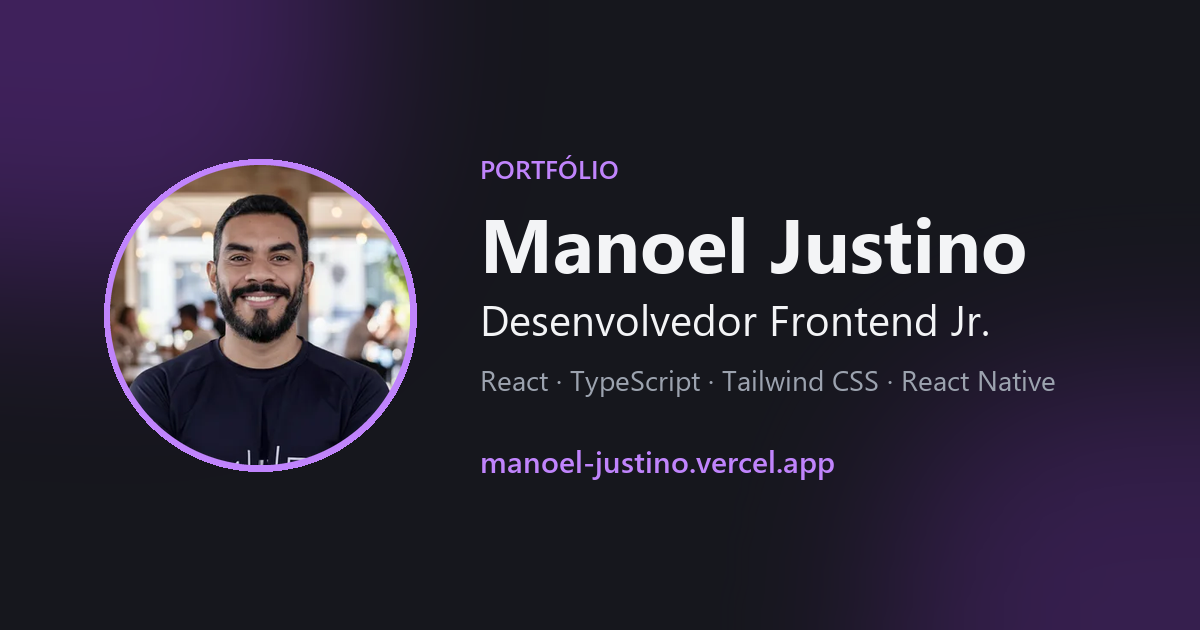
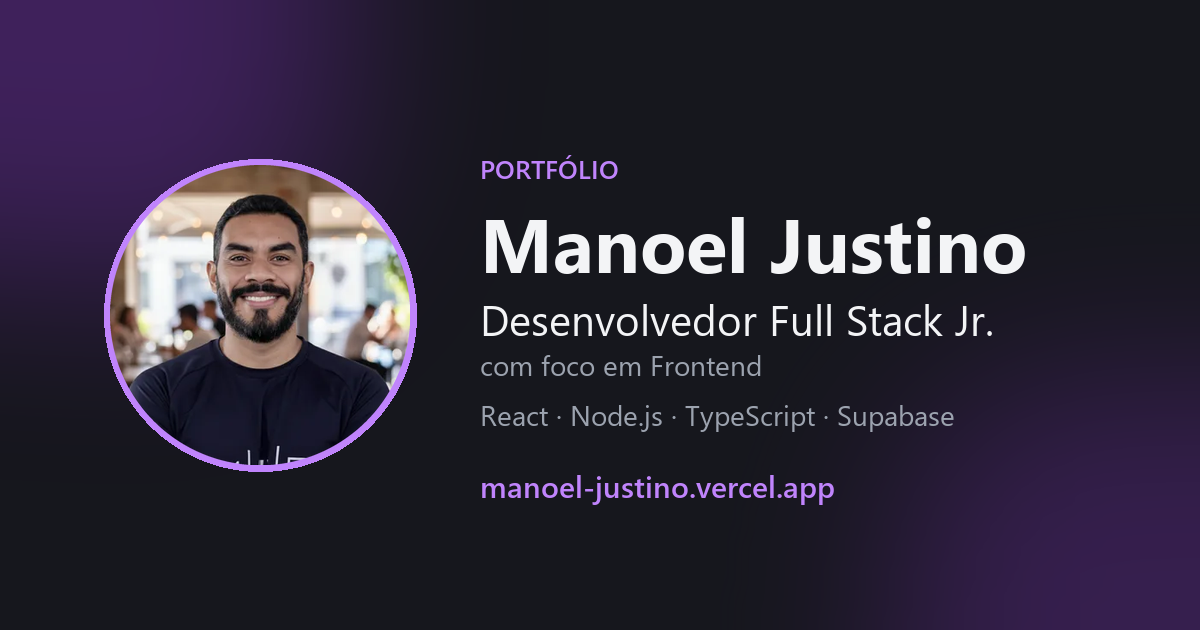
feat: atualiza posicionamento do site para Full Stack Jr. com foco em Frontend

Changed region(s): [[0.4008, 0.573, 0.8942, 0.6937], [0.4008, 0.7238, 0.7092, 0.8143], [0.6475, 0.4825, 0.8325, 0.5429]]

diff --git a/index.html b/index.html
@@ -4,18 +4,18 @@
     <meta charset="UTF-8" />
     <link rel="icon" type="image/svg+xml" href="/favicon.svg" />
     <meta name="viewport" content="width=device-width, initial-scale=1.0" />
-    <title>Manoel Justino | Desenvolvedor Frontend Jr.</title>
-    <meta name="description" content="Portfólio de Manoel Justino, desenvolvedor Frontend Jr. em João Pessoa - PB. Projetos com React, React Native e JavaScript." />
+    <title>Manoel Justino | Desenvolvedor Full Stack Jr.</title>
+    <meta name="description" content="Portfólio de Manoel Justino, desenvolvedor Full Stack Jr. com foco em Frontend, em João Pessoa - PB. Projetos com React, Node.js, Supabase e React Native." />
 
     <meta property="og:type" content="website" />
     <meta property="og:locale" content="pt_BR" />
-    <meta property="og:title" content="Manoel Justino | Desenvolvedor Frontend Jr." />
-    <meta property="og:description" content="De Personal Trainer a desenvolvedor Frontend. Conheça meus projetos com React e React Native." />
+    <meta property="og:title" content="Manoel Justino | Desenvolvedor Full Stack Jr." />
+    <meta property="og:description" content="De Personal Trainer a desenvolvedor Full Stack, com foco em Frontend. Conheça meus projetos com React, Node.js e React Native." />
     <meta property="og:url" content="https://manoel-justino.vercel.app/" />
     <meta property="og:image" content="https://manoel-justino.vercel.app/og-image.png" />
     <meta property="og:image:width" content="1200" />
     <meta property="og:image:height" content="630" />
-    <meta property="og:image:alt" content="Manoel Justino, Desenvolvedor Frontend Jr." />
+    <meta property="og:image:alt" content="Manoel Justino, Desenvolvedor Full Stack Jr. com foco em Frontend" />
     <meta name="twitter:card" content="summary_large_image" />
     <link rel="canonical" href="https://manoel-justino.vercel.app/" />
   </head>

diff --git a/src/components/sections/Contato.jsx b/src/components/sections/Contato.jsx
@@ -29,7 +29,7 @@ function Contato() {
   return (
     <section id="contato" className="max-w-2xl mx-auto px-6 pt-4 pb-16 sm:pt-8 sm:pb-24 text-left">
       <SectionHeader rotulo="Contato" titulo="Vamos conversar?">
-        Estou em busca da minha primeira oportunidade como desenvolvedor Frontend. Se quiser
+        Estou em busca da minha primeira oportunidade como desenvolvedor Full Stack. Se quiser
         falar sobre uma vaga, um projeto ou trocar uma ideia, é só chamar.
       </SectionHeader>
 
@@ -53,7 +53,7 @@ function Contato() {
       <div className="flex flex-wrap gap-3 mt-8">
         <a
           href={contato.curriculo}
-          download="Curriculo-Manoel-Justino-Frontend.pdf"
+          download="Curriculo-Manoel-Justino.pdf"
           className="inline-flex items-center gap-2 px-5 py-3 rounded-lg bg-(--accent) text-sm font-medium text-(--bg) transition-opacity duration-200 hover:opacity-90"
         >
           <IconeDownload className="w-4 h-4" />

diff --git a/src/components/sections/Sobre.jsx b/src/components/sections/Sobre.jsx
@@ -8,10 +8,10 @@ function Sobre() {
     >
       <SectionHeader
         rotulo="Sobre"
-        titulo="Frontend orientado a clareza, performance e experiência do usuário."
+        titulo="Desenvolvimento orientado a clareza, performance e experiência do usuário."
       >
         Formado em Sistemas para Internet (UNIESP), com 9 anos de experiência como Personal
-        Trainer. Hoje direciono minha carreira para o desenvolvimento Frontend, unindo
+        Trainer. Hoje direciono minha carreira para o desenvolvimento Full Stack, com foco em Frontend, unindo
         disciplina técnica com uma visão de produto que poucos devs junior têm: a de quem
         já foi o "usuário final" de soluções de saúde e performance.
       </SectionHeader>

diff --git a/src/components/sections/Tecnologias.jsx b/src/components/sections/Tecnologias.jsx
@@ -9,7 +9,7 @@ function Tecnologias() {
     <section id="tecnologias" className="max-w-2xl mx-auto px-6 pt-4 pb-16 sm:pt-8 sm:pb-24 text-left">
 
       <SectionHeader rotulo="Tecnologias" titulo="Stack organizada por área de atuação.">
-        Tecnologias aplicadas em projetos reais — do front-end ao mobile, com testes automatizados e ferramentas de versionamento no fluxo do dia a dia.
+        Tecnologias aplicadas em projetos reais — do front-end ao back-end e ao mobile, com testes automatizados e ferramentas de versionamento no fluxo do dia a dia.
       </SectionHeader>
 
       {/* grid de 2 colunas — mesmo padrão do Sobre, economiza espaço vertical

diff --git a/src/components/sections/Hero.jsx b/src/components/sections/Hero.jsx
@@ -30,12 +30,13 @@ function Hero() {
 
         <div className="-mt-3">
           <h1>Manoel Justino</h1>
-          <h2>Desenvolvedor Frontend Jr.</h2>
+          <h2>Desenvolvedor Full Stack Jr.</h2>
+          <p className="text-sm text-(--text)">com foco em Frontend</p>
         </div>
 
         <div className="flex flex-wrap justify-center gap-3 mt-2">
           <Tag>Localizado em João Pessoa - PB 🏖</Tag>
-          <Tag>React • React Native • JavaScript</Tag>
+          <Tag>React • Node.js • React Native</Tag>
           <Tag>9 anos como Personal Trainer</Tag>
         </div>
       </div>
